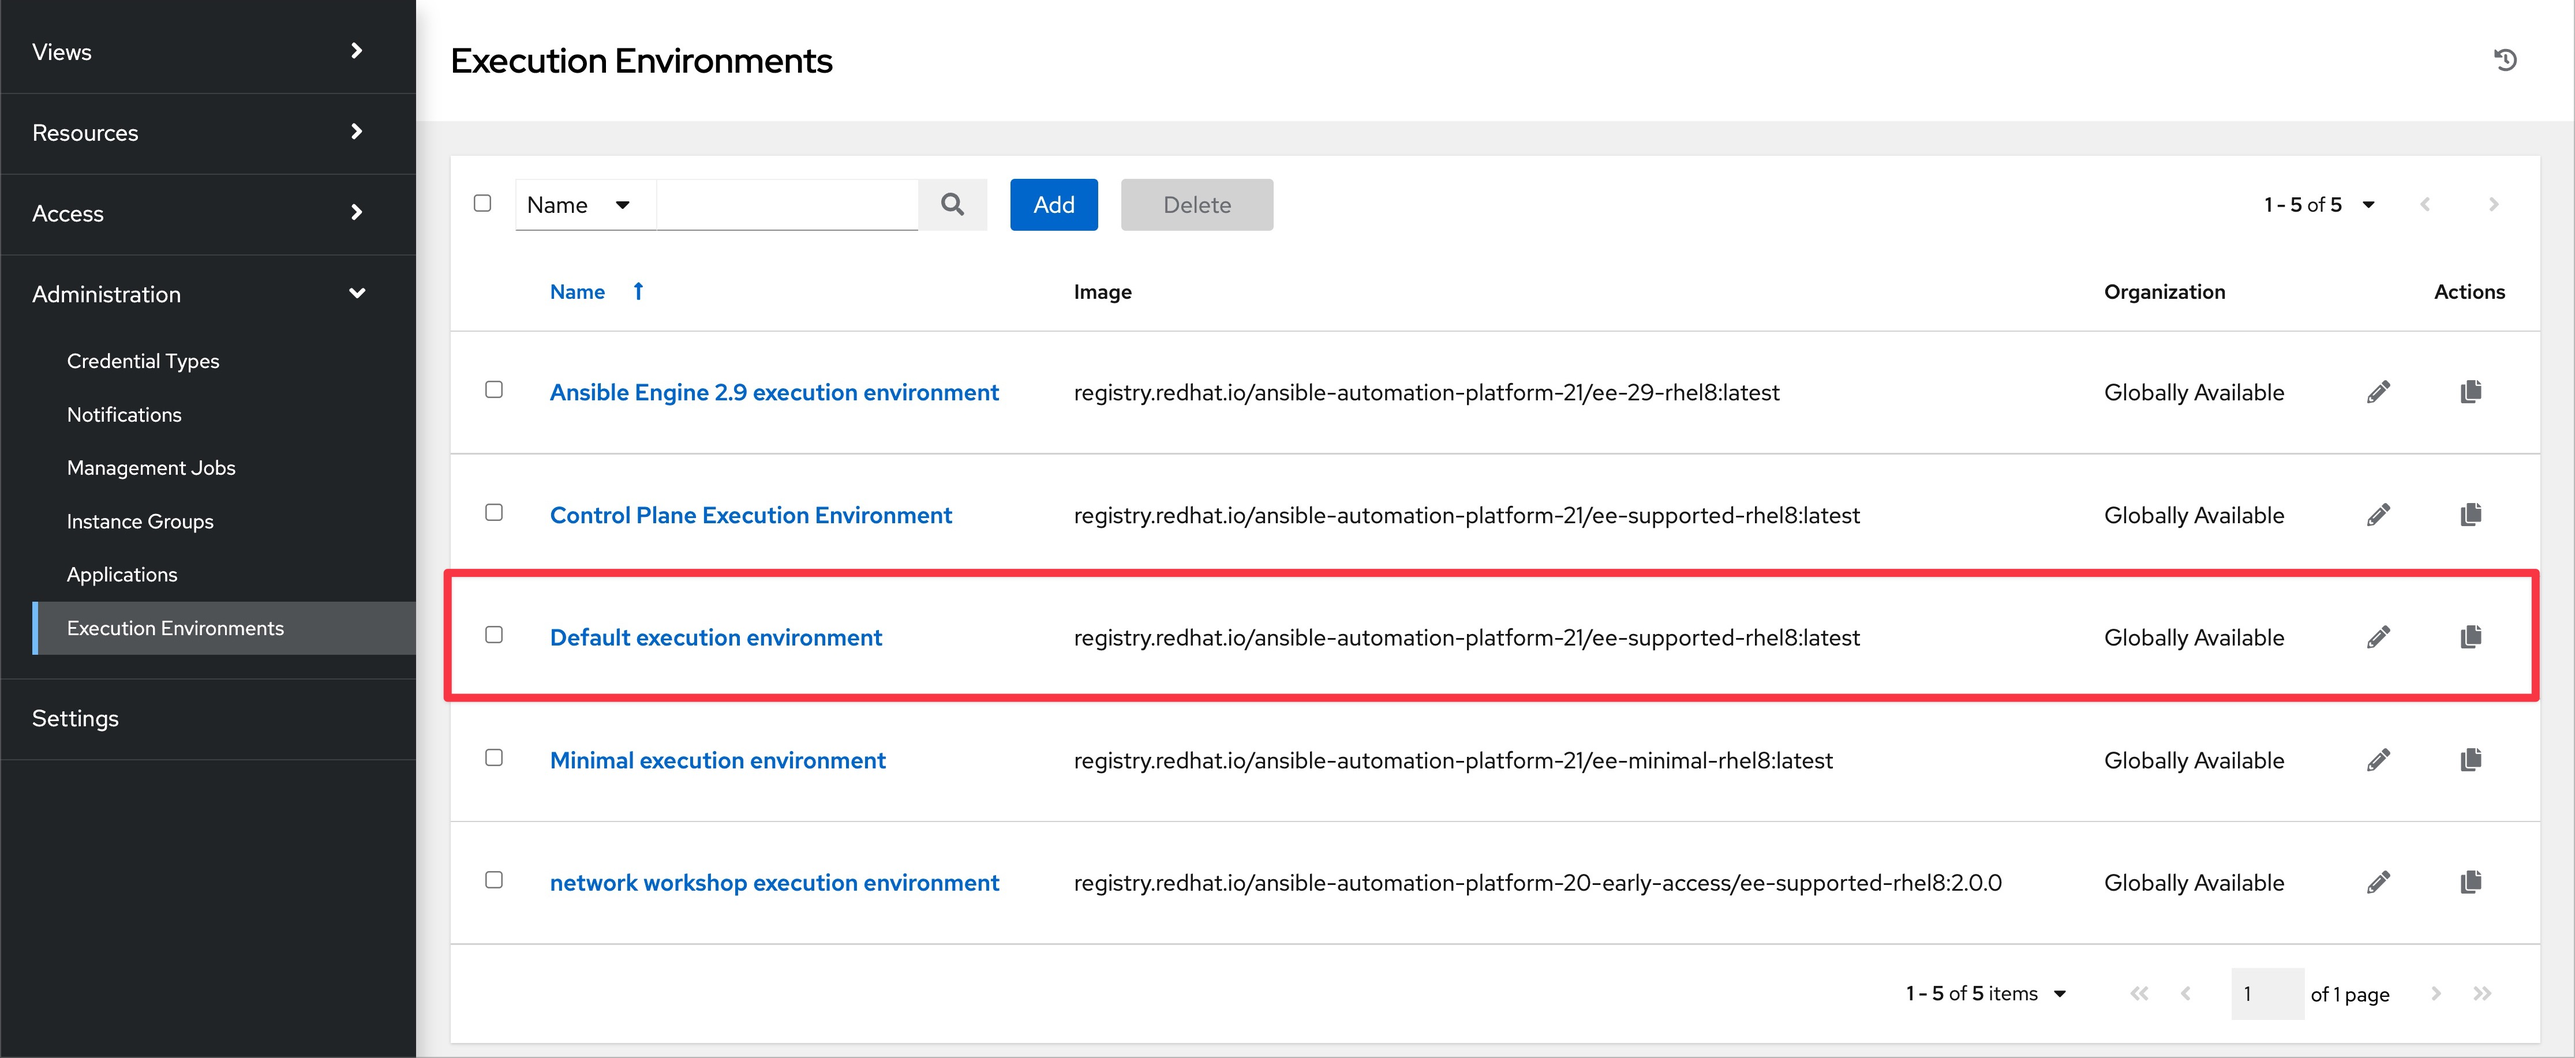
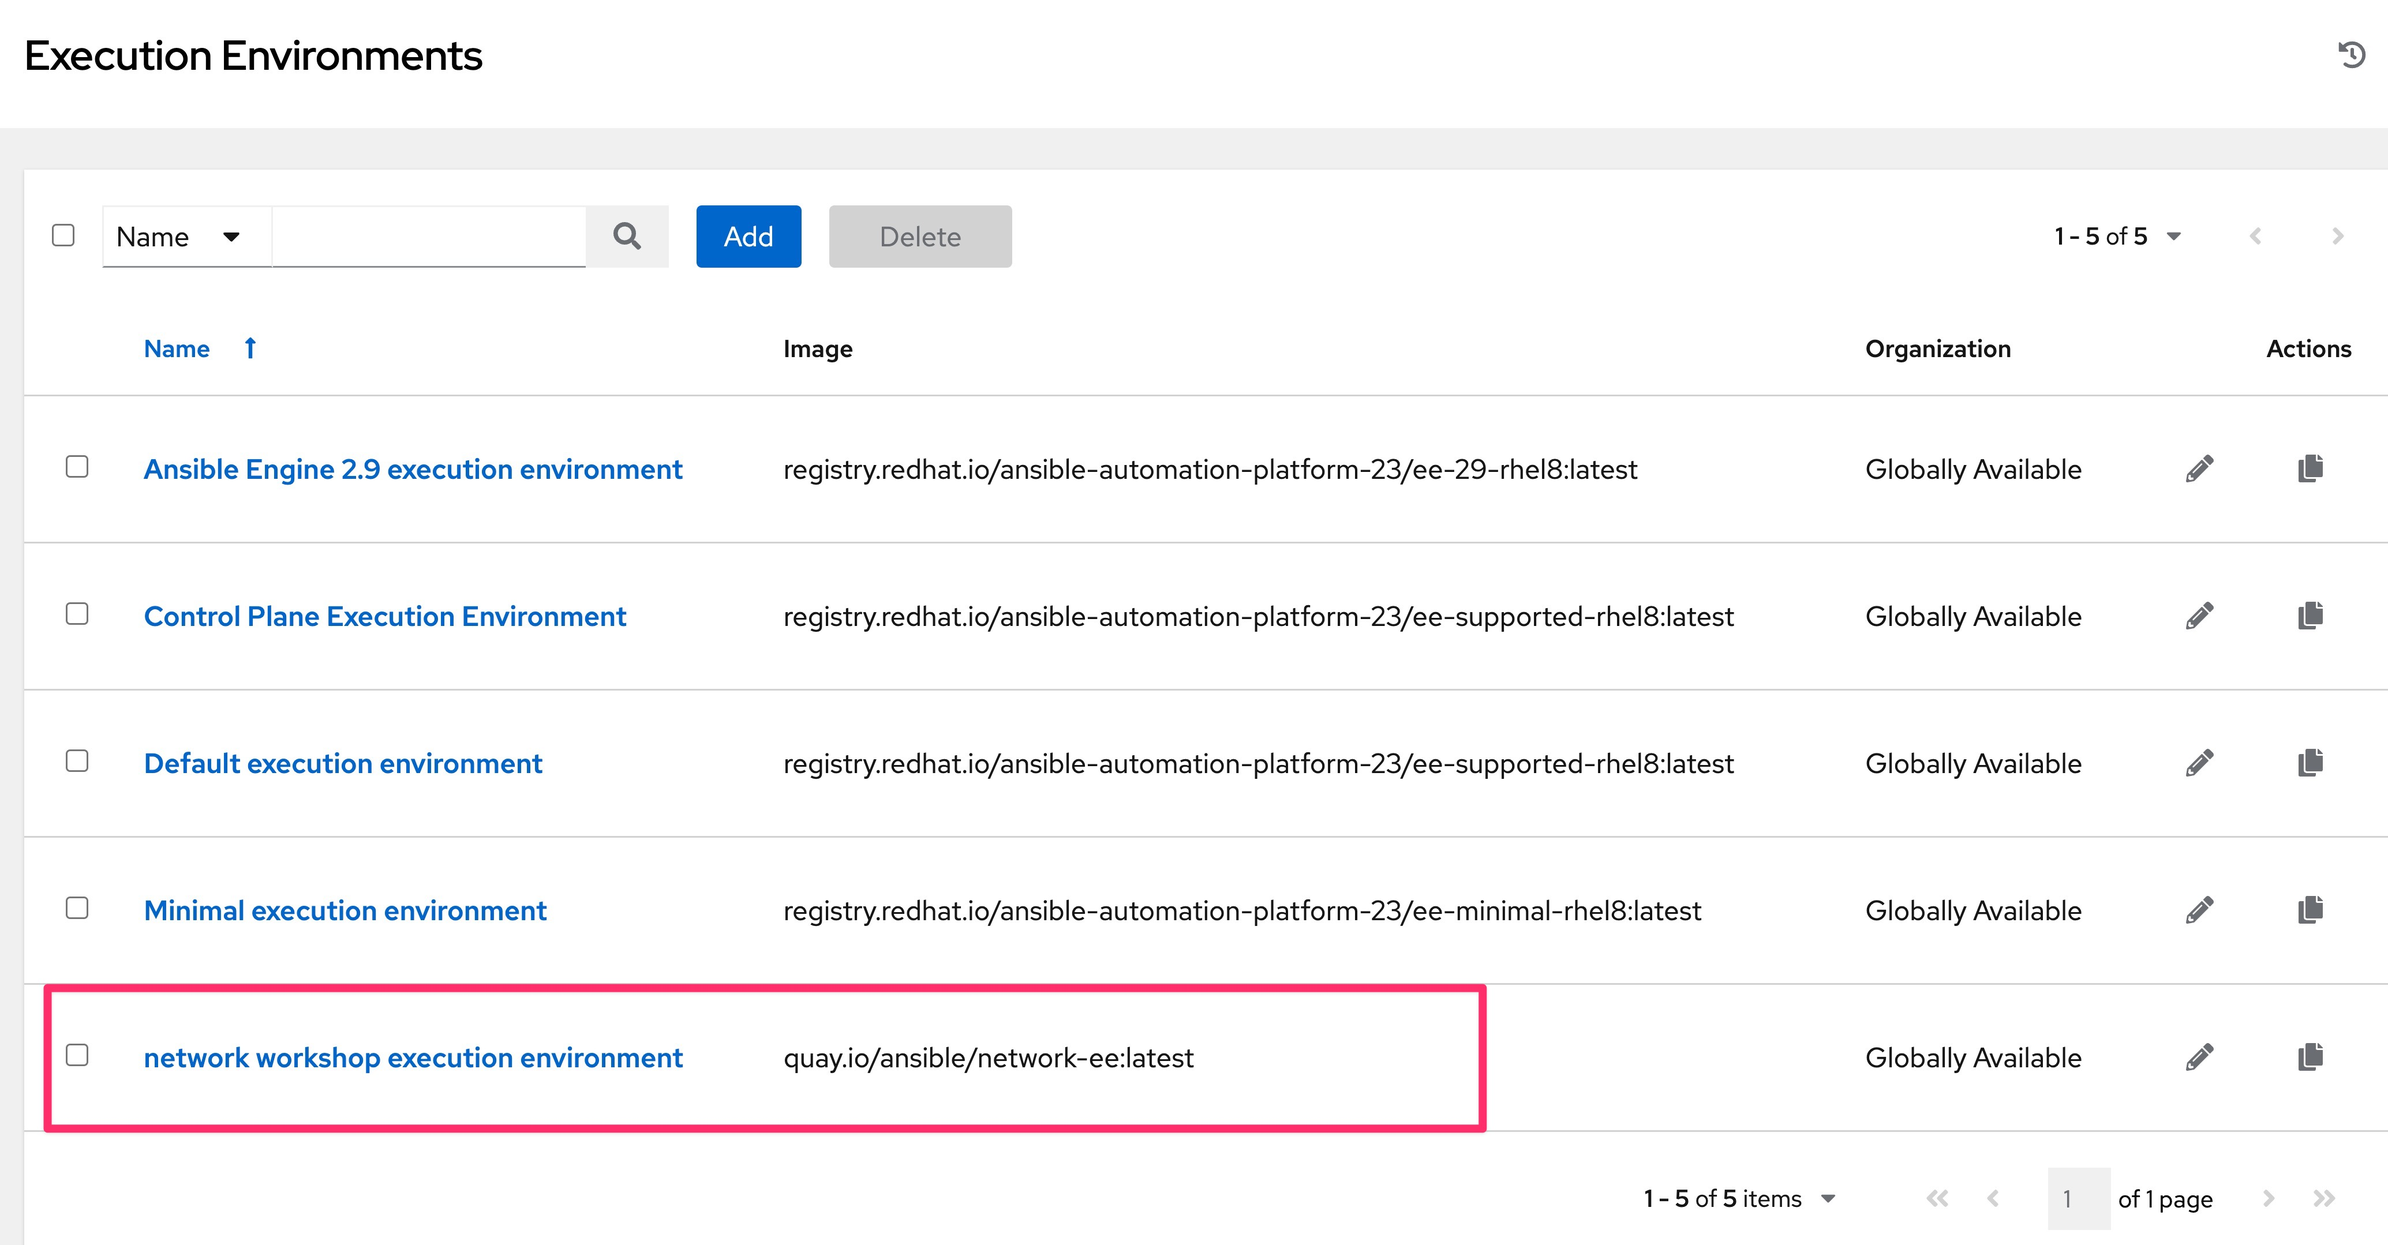
update excer1-3 readme

diff --git a/1-explore/README.md b/1-explore/README.md
@@ -59,11 +59,11 @@ Explore and understand the lab environment.  This exercise will cover
 
   ![login vs code](images/vscode_login.png)
 
-- Open the `network-workshop` directory in Visual Studio Code:
+- Open the `network-workshop` directory in Visual Studio Code from using the menu : `File → Open Folder`: 
 
   ![picture of file browser](images/vscode-networkworkshop.png)
 
-- Click on the `playbook.yml` to view the content.
+- On the side bar , Click on the `playbook.yml` to view the content.
 
   ![picture of playbook](images/vscode-playbook.png)
 
@@ -140,6 +140,7 @@ Cisco IOS XE Software, Version 16.09.02
 
    ![version info window](images/automation_controller_about_info.png)
 
+6. Close the window by clicking the `x` sign at the top right corner.
 
 ### Step 2: Examine the Automation controller Inventory
 
@@ -147,13 +148,13 @@ An inventory is required for Automation controller to be able to run jobs.  An i
 
 > Note:
 >
-> More info on Inventories in respect to Automation controller can be found in the [documentation here](https://docs.ansible.com/automation-controller/4.0.0/html/userguide/inventories.html)
+> More info on Inventories in respect to Automation controller can be found in the [documentation here](https://docs.ansible.com/automation-controller/latest/html/userguide/inventories.html)
 
 1. Click on the **Inventories** button under **RESOURCES** on the left menu bar.
 
     ![Inventories Button](images/automation_controller_inventories_menu.jpg)
 
-2. Under Inventories click on the `Workshop Inventory`.
+2. Under Inventories click on the `Workshop Inventory` from the list shown on the right side.
 
 3. Under the `Workshop Inventory` click the **Hosts** button at the top.  There will be four hosts here, rtr1 through rtr4 as well as the ansible control node.  
 
@@ -207,7 +208,7 @@ A project is how Ansible Playbooks are imported into Automation controller.  You
 
     ![Student Project Link](images/automation_controller_student_project.jpg)
 
-    Note that Type is set to `Manual` for this project.  This means this project is using Manual sync instead of using SCM like GIT.
+    > Note that Type is set to `Manual` for this project.  This means this project is using Manual sync instead of using SCM like GIT. This is only shown as example. **We highly recommend to use SCM like GIT in all production environments.**
 
 3. Click on the `Student Network Automation Project`.
 
@@ -222,7 +223,7 @@ Credentials are utilized by Automation controller for authentication when launch
 
 > Note:
 >
-> For more information on Credentials in Automation controller please [refer to the documentation](https://docs.ansible.com/automation-controller/4.0.0/html/userguide/credentials.html).
+> For more information on Credentials in Automation controller please [refer to the documentation](https://docs.ansible.com/automation-controller/latest/html/userguide/credentials.html).
 
 1. Click on the **Credentials** button under **Resources** on the left menu bar.
 
@@ -252,7 +253,7 @@ We will explore the existing Execution Environment in the workshop environment.
 
     ![Execution Environment link](images/execution_environments_menu.jpg)
 
-2. Under **Execution Environments** there will be multiple pre-configured execution environments, including `Default execution environment`, `	Minimal execution environment` etc.,. We will be using the `Default execution environment` for our workshop. Please note the link under Image from where the images can be  retrieved (pulled).
+2. Under **Execution Environments** there will be multiple pre-configured execution environments, including `Default execution environment`, `	Minimal execution environment` etc.,. We will be using the `network workshop execution environment` for our workshop. Please note the link under Image from where the images can be  retrieved (pulled).
 
     ![Execution Environment List Link](images/execution_environments_list.jpg)
 

diff --git a/2-first-playbook/README.md b/2-first-playbook/README.md
@@ -105,15 +105,18 @@ Run the playbook using the `Automation Controller` web interface.
 9. Click `Launch`.
 ![job templates cisco snmp config prompts 1st run launch](images/job_template_cisco_snmp_config_launch_1st_run.jpg)
 
+10. Click on `Reload output` if you see the `Event processing complete` message
 
-10. Check the `Output` of the Job run. Note that the task `ensure that the desired snmp strings are present` has status `changed` for `rtr1`. This means that the task has made the chnages on the router. We can check the router configuration to verify.
+![job run output reload](images/job_run_reload_output.jpg)
+
+11. Check the `Output` of the Job run. Note that the task `ensure that the desired snmp strings are present` has status `changed` for `rtr1`. This means that the task has made the changes on the router. We can check the router configuration to verify.
 
 ![job templates cisco snmp config 1st run stdout](images/job_template_cisco_snmp_config_stdout_1st_run.jpg)
 
 
 ### Step 3 - Verify configuration on router
 
-Verify that the Ansible Playbook worked.  Login to `rtr1` and check the running configuration on the Cisco IOS-XE device.
+Verify that the Ansible Playbook worked.  Login to `rtr1` and check the running configuration on the Cisco IOS-XE device using the VSCode Terminal window.
 
 ```bash
 [student1@ansible network-workshop]$ ssh rtr1

diff --git a/3-facts/README.md b/3-facts/README.md
@@ -80,7 +80,7 @@ Enter the following play definition into `facts.yml`:
 
 ```yaml
 ---
-- name: gather information from routers
+- name: Gather information from routers
   hosts: cisco
   gather_facts: no
 ```
@@ -98,12 +98,12 @@ Next, add the first `task`. This task will use the `cisco.ios.facts` module to g
 
 ```yaml
 ---
-- name: gather information from routers
+- name: Gather information from routers
   hosts: cisco
   gather_facts: no
 
   tasks:
-    - name: gather router facts
+    - name: Gather router facts
       cisco.ios.facts:
 ```
 
